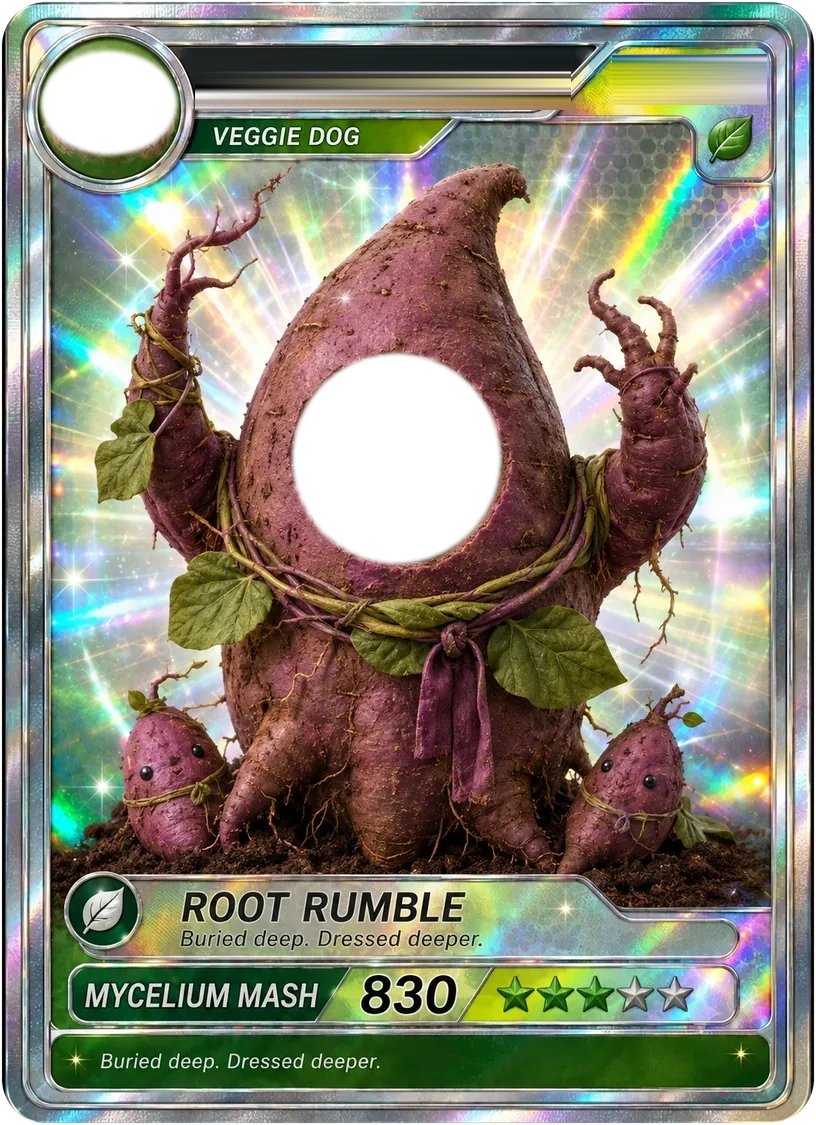
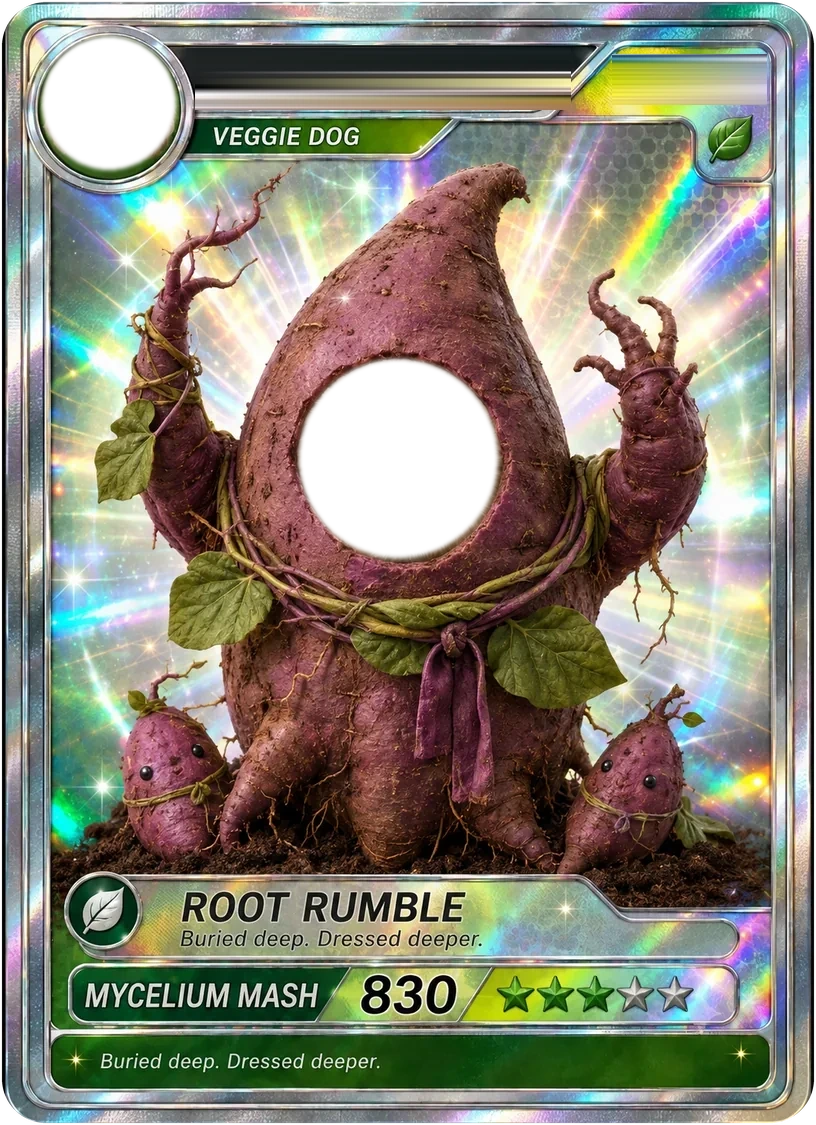
얼굴이 구멍 한가운데 안 들어가고 글씨체가 카드와 따로 놀던 것
## 구멍이 어긋난 것

경계상자로 중심을 잡고 있었다. 배추에서 오른쪽 어딘가 따뜻한 색이 얼굴 덩어리에
붙는 바람에 상자가 늘어나서, 반지름이 실제의 1.5배(13% → 20.5%)가 되고 중심도
오른쪽으로 밀렸다.

**줄마다 좌우 끝 사이의 폭을 재고, 그 중 상위 백분위를 쓴다.**

- "안 끊긴 길이" 가 아니라 **폭**이다. 눈·코가 어두워 판정에서 빠지므로 길이로 재면
  아바타 반지름이 절반으로 나온다
- 최댓값이 아니라 **86 백분위**다. 가늘게 붙은 혹은 몇 줄만 부풀리는데, 최댓값이면
  그 몇 줄이 지름이 된다
- 세로 중심은 경계상자에서 가져온다. 위아래 가림(잎·후드)은 대체로 대칭이다
- 반지름은 하나만 쓴다 — **구멍이 둘 다 원**이라 가로 폭이면 충분하다

## 글씨체

저쪽 카드는 제목이 세리프 스몰캡스고 번호는 굵은 산세리프인데 둘 다 세리프로
뭉뚱그렸더니 번호판이 카드와 따로 놀았다. 자간도 다르다 — 제목은 벌어져 있고 번호는
붙어 있다. `SlotFace` 로 갈랐다.

## 생일

번호판이 `NEO-0824` 인데 그게 **월일**이다. 받기로 한 생일이 그 자리에 그대로
들어간다 — `birthCode(4, 12)` → `NEO-0412`.

## 무엇을 재봤나

`:app:assembleDebug` 통과. 뚫은 판을 눈으로 확인했다 — 구멍이 잎 고리 한가운데 들어가고
저쪽 강아지 털이 둘레에 안 남는다. 아바타도 제 크기다.

Claude-Session: https://claude.ai/code/session_01RWBxLUaaEV81nLrDJub5d5

diff --git a/app/src/main/java/com/daengs/app/ui/dogcard/CardSlots.kt b/app/src/main/java/com/daengs/app/ui/dogcard/CardSlots.kt
@@ -84,8 +84,8 @@ val CABBAGE_CARD = CardTemplate(
     label = "배추",
     art = "neo-hologram/art/cabbage-card-slots.webp",
     ratio = 810f / 1125f,
-    face = Hole(53.77f, 44.71f, 20.54f, 14.08f),
-    avatar = Hole(13.15f, 9.20f, 8.26f, 4.42f),
+    face = Hole(52.84f, 44.71f, 19.81f, 14.27f),
+    avatar = Hole(13.09f, 9.20f, 8.06f, 5.80f),
     name = Slot(24.0f, 4.0f, 70.0f, 9.8f),
     code = Slot(75.0f, 4.8f, 94.0f, 9.4f),
 )
@@ -95,8 +95,8 @@ val SWEET_POTATO_CARD = CardTemplate(
     label = "고구마",
     art = "neo-hologram/art/sweet-potato-card-slots.webp",
     ratio = 816f / 1125f,
-    face = Hole(48.59f, 40.76f, 12.78f, 9.37f),
-    avatar = Hole(13.36f, 9.16f, 8.26f, 4.57f),
+    face = Hole(48.84f, 40.76f, 12.13f, 8.80f),
+    avatar = Hole(13.36f, 9.16f, 8.13f, 5.90f),
     name = Slot(24.0f, 4.0f, 70.0f, 9.8f),
     code = Slot(75.0f, 4.8f, 94.0f, 9.4f),
 )
@@ -135,8 +135,8 @@ fun PersonalCard(
             }
             // 글자는 카드 **위에** 그린다. 비운 바가 이미 카드 안에 있으므로,
             // 아래에 두면 카드가 덮어 버린다.
-            drawSlotText(measurer, name, template.name, weight = FontWeight.Bold)
-            drawSlotText(measurer, code, template.code, weight = FontWeight.Bold)
+            drawSlotText(measurer, name, template.name, TITLE)
+            drawSlotText(measurer, code, template.code, CODE)
         }
     }
 }
@@ -172,11 +172,32 @@ private fun DrawScope.drawInHole(face: ImageBitmap, hole: Hole) {
  * 글자 크기는 **바 높이에서 구한다.** dp 로 박아 두면 카드가 그리드에서 작아질 때
  * 바 밖으로 넘친다 — 카드는 확대 뷰와 그리드에서 크기가 다르다.
  */
+/**
+ * 글자 결을 원화에 맞춘다.
+ *
+ * 저쪽 카드는 제목이 **세리프 스몰캡스**("Cabbage Neo")고 번호는 **굵은 산세리프**
+ * ("NEO-0824")다. 둘을 세리프 하나로 뭉뚱그렸더니 번호판이 카드와 따로 놀았다.
+ *
+ * 자간도 다르다 — 제목은 넓게 벌어져 있고 번호는 붙어 있다.
+ */
+private data class SlotFace(
+    val family: FontFamily,
+    val weight: FontWeight,
+    val letterSpacing: Float,
+    val fill: Float,
+)
+
+private val TITLE = SlotFace(FontFamily.Serif, FontWeight.Bold, 0.06f, 0.60f)
+private val CODE = SlotFace(FontFamily.SansSerif, FontWeight.Black, 0.01f, 0.58f)
+
+/** 생일을 번호판 글자로. 저쪽 `NEO-0824` 가 월일이라 그 자리에 그대로 들어간다. */
+fun birthCode(month: Int, day: Int): String = "NEO-%02d%02d".format(month, day)
+
 private fun DrawScope.drawSlotText(
     measurer: TextMeasurer,
     text: String,
     slot: Slot,
-    weight: FontWeight,
+    face: SlotFace,
 ) {
     if (text.isBlank()) return
     val left = size.width * slot.x0 / 100f
@@ -187,18 +208,27 @@ private fun DrawScope.drawSlotText(
     val boxH = bottom - top
     if (boxW <= 0f || boxH <= 0f) return
 
+    val base = boxH * face.fill
     val style = TextStyle(
         color = Color.White,
-        fontSize = (boxH * 0.62f).toSp(),
-        fontWeight = weight,
-        fontFamily = FontFamily.Serif,
+        fontSize = base.toSp(),
+        fontWeight = face.weight,
+        fontFamily = face.family,
+        letterSpacing = (base * face.letterSpacing).toSp(),
         textAlign = TextAlign.Center,
     )
     val laid = measurer.measure(text, style, maxLines = 1)
     // 넘치면 줄인다. 이름이 긴 개도 있다.
     val scale = minOf(1f, boxW / laid.size.width.toFloat())
     val fitted = if (scale < 1f) {
-        measurer.measure(text, style.copy(fontSize = (boxH * 0.62f * scale).toSp()), maxLines = 1)
+        measurer.measure(
+            text,
+            style.copy(
+                fontSize = (base * scale).toSp(),
+                letterSpacing = (base * scale * face.letterSpacing).toSp(),
+            ),
+            maxLines = 1,
+        )
     } else {
         laid
     }
@@ -220,11 +250,11 @@ private fun Float.toSp() = (this / 2.6f).sp
 @Preview(name = "배추 판", widthDp = 220, heightDp = 310)
 @Composable
 private fun CabbageTemplatePreview() {
-    PersonalCard(CABBAGE_CARD, face = null, name = "몽이", code = "DG-0829", modifier = Modifier.size(200.dp))
+    PersonalCard(CABBAGE_CARD, face = null, name = "몽이", code = birthCode(4, 12), modifier = Modifier.size(200.dp))
 }
 
 @Preview(name = "고구마 판 · 작게", widthDp = 130, heightDp = 190)
 @Composable
 private fun SweetPotatoSmallPreview() {
-    PersonalCard(SWEET_POTATO_CARD, face = null, name = "몽이", code = "DG-0829", modifier = Modifier.size(110.dp))
+    PersonalCard(SWEET_POTATO_CARD, face = null, name = "몽이", code = birthCode(4, 12), modifier = Modifier.size(110.dp))
 }

diff --git a/app/src/main/java/com/daengs/app/ui/dogcard/CutoutLabScreen.kt b/app/src/main/java/com/daengs/app/ui/dogcard/CutoutLabScreen.kt
@@ -241,7 +241,7 @@ fun CutoutLabScreen(onBack: () -> Unit) {
                         template = template,
                         face = face,
                         name = "몽이",
-                        code = "DG-0829",
+                        code = birthCode(4, 12),
                         modifier = Modifier.weight(1f),
                     )
                 }

diff --git a/tools/punch_card_slots.py b/tools/punch_card_slots.py
@@ -67,6 +67,9 @@ VALUE_MIN = 0.50
 # 덩어리가 이 화소 수보다 작으면 무시한다. 하이라이트 반점을 거른다.
 MIN_BLOB = 2000
 
+# 줄 폭을 고를 백분위. 1.0(최댓값)이면 혹 하나에 끌려간다.
+SPAN_PERCENTILE = 0.86
+
 # 얼굴 덩어리의 생김새 제한. 카드 폭 대비 반지름과 가로/세로 비다.
 # **이게 없으면 배경 덩어리가 큰 얼굴로 뽑힌다** — 넓이만 보면 그쪽이 늘 크다.
 FACE_R_MIN, FACE_R_MAX = 0.06, 0.28
@@ -142,6 +145,55 @@ def blobs(img: Image.Image) -> list[tuple[int, int, int, int, int]]:
     return out
 
 
+def center_of(
+    img: Image.Image, blob: tuple[int, int, int, int, int]
+) -> tuple[float, float, float, float]:
+    """덩어리의 중심과 반지름. **경계상자를 쓰지 않는다.**
+
+    경계상자는 가늘게 붙은 혹 하나에 통째로 끌려간다 — 배추에서 얼굴 반지름이
+    실제(13%)의 1.5배(20.5%)로 나오고 중심도 오른쪽으로 밀렸다.
+
+    대신 **제일 긴 가로줄과 세로줄**을 쓴다. 얼굴은 둥글어서 그 줄이 지름이고,
+    혹은 가늘어서 긴 줄을 못 만든다. 가로줄의 가운데가 x, 세로줄의 가운데가 y다.
+    """
+    _, left, top, right, bottom = blob
+    rgb = img.convert("RGB")
+    px = rgb.load()
+    alpha = img.getchannel("A").load()
+
+    def ok(x: int, y: int) -> bool:
+        if alpha[x, y] < 8:
+            return False
+        r, g, b = px[x, y]
+        hue, sat, val = colorsys.rgb_to_hsv(r / 255, g / 255, b / 255)
+        return (
+            SATURATION_MIN <= sat <= SATURATION_MAX
+            and val >= VALUE_MIN
+            and HUE_MIN <= hue * 360 <= HUE_MAX
+        )
+
+    # 줄마다 **좌우 끝 사이의 폭**을 잰다. 길이가 아니라 폭이다 — 눈·코가 어두워
+    # 판정에서 빠지므로 "안 끊긴 길이" 로 재면 아바타 반지름이 절반으로 나온다.
+    spans = []
+    for y in range(top, bottom + 1):
+        xs = [x for x in range(left, right + 1) if ok(x, y)]
+        if xs:
+            spans.append((xs[-1] - xs[0] + 1, (xs[0] + xs[-1]) / 2))
+    if not spans:
+        return (left + right) / 2, (top + bottom) / 2, (right - left) / 2, (bottom - top) / 2
+
+    # **최댓값이 아니라 상위 백분위를 쓴다.** 가늘게 붙은 혹은 몇 줄만 부풀리는데,
+    # 최댓값을 쓰면 그 몇 줄이 지름이 된다 — 배추에서 반지름이 1.5배로 나왔다.
+    spans.sort()
+    pick = spans[int(len(spans) * SPAN_PERCENTILE)]
+    wide = [m for w_, m in spans if w_ >= pick[0] * 0.9]
+    mid_x = sorted(wide)[len(wide) // 2]
+
+    # 세로 중심은 경계상자에서 가져온다. 위아래 가림은 대체로 대칭이다.
+    # 반지름은 하나만 쓴다 — **구멍이 둘 다 원**이라 가로 폭이면 충분하다.
+    return mid_x, (top + bottom) / 2, pick[0] / 2, pick[0] / 2
+
+
 def erase_text(img: Image.Image, box: tuple[float, float, float, float]) -> None:
     """글자 자리를 좌우 이웃 색으로 메운다. 바가 가로 그라디언트라 줄마다 잇는다."""
     w, h = img.size
@@ -196,9 +248,9 @@ def punch(veggie: str) -> dict | None:
     hole = Image.new("L", (w, h), 0)
     draw = ImageDraw.Draw(hole)
     for name, blob in (("face", face), ("avatar", avatar)):
-        _, l, t, r, b = blob
-        cx, cy = (l + r) / 2, (t + b) / 2
-        rx, ry = (r - l) / 2 * SHRINK, (b - t) / 2 * SHRINK
+        cx, cy, radius, _ = center_of(img, blob)
+        radius *= SHRINK
+        rx = ry = radius
         draw.ellipse((cx - rx, cy - ry, cx + rx, cy + ry), fill=255)
         slots[name] = {
             "cx": round(cx / w * 100, 2),
